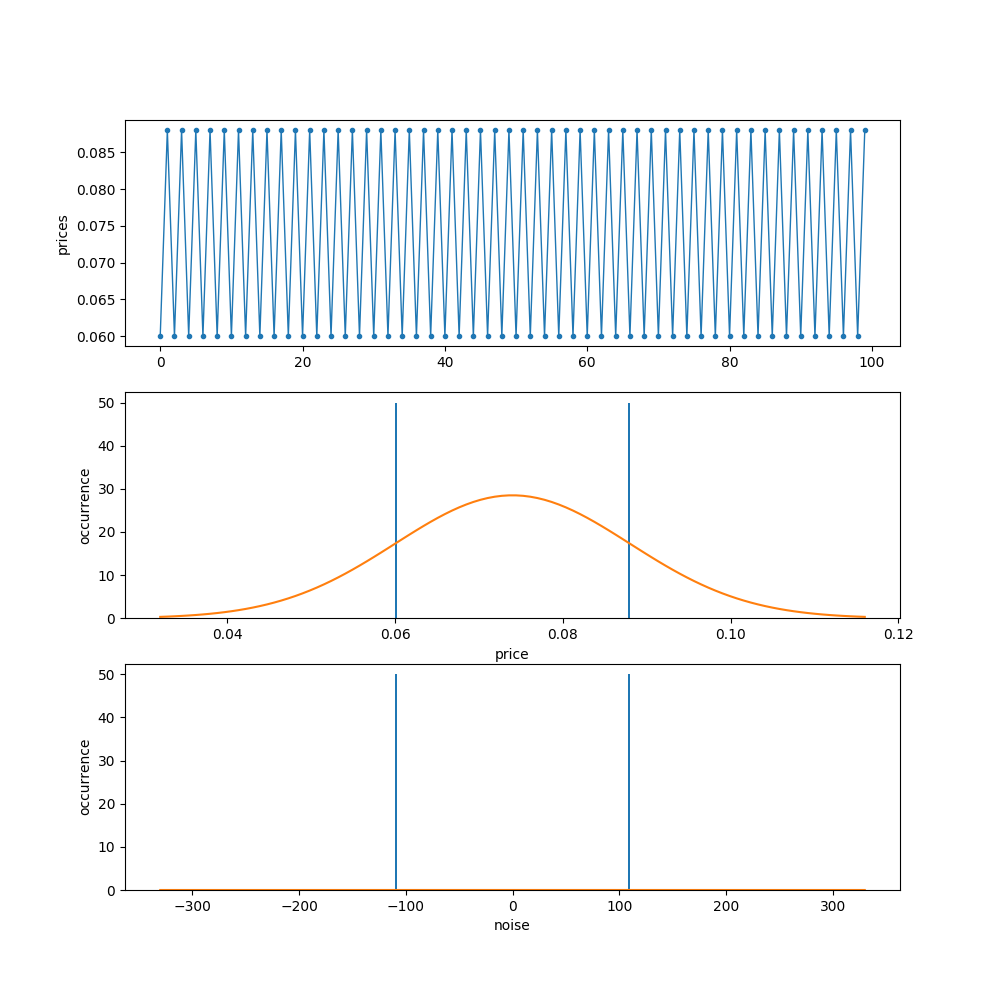
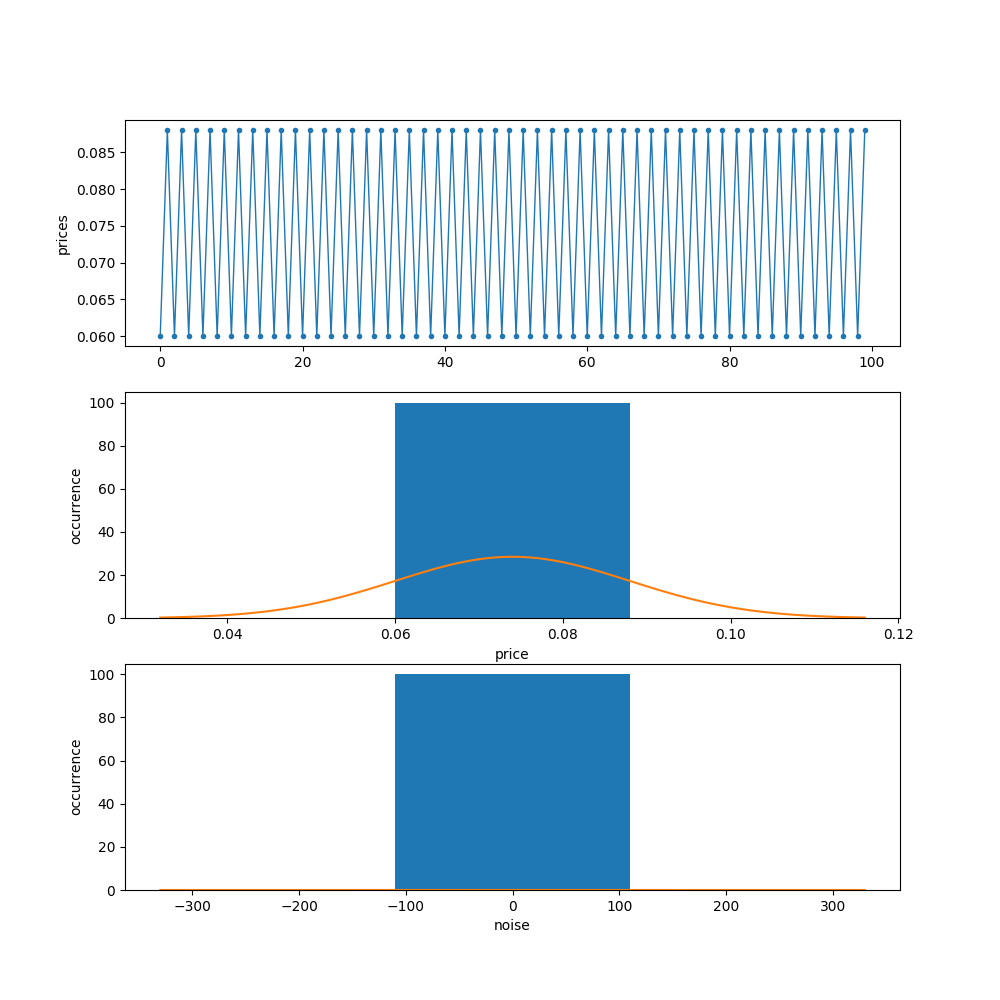
update

diff --git a/utils.py b/utils.py
@@ -360,7 +360,7 @@ def plot_price_span(guess_price_seq, ax):
 import scipy.stats as stats
 
 def plot_price_distribution(guess_price_seq, ax):
-    ax.hist(guess_price_seq, bins=100)
+    ax.hist(guess_price_seq, bins=1)
 
     mu = guess_price_seq.mean()
     sigma = guess_price_seq.std()
@@ -372,7 +372,7 @@ def plot_price_distribution(guess_price_seq, ax):
 
 
 def plot_noise_distribution(bk_list, ax):
-    ax.hist(bk_list, bins=100)
+    ax.hist(bk_list, bins=1)
     mu = bk_list.mean()
     sigma = bk_list.std()
     x = np.linspace(mu - 3*sigma, mu + 3*sigma, 100)

diff --git a/core.py b/core.py
@@ -1776,7 +1776,8 @@ class MyModel(object):
               delta=0.001, max_iteration=10000):
 
         start_pos = 1000
-        end_pos = 1100
+        # end_pos = 1100
+        end_pos = 1010
 
         assert start_pos > 0, colors.red("start_pos must be larger than 0")
         assert start_pos < end_pos, colors.red("start_pos must be less than end_pos")
